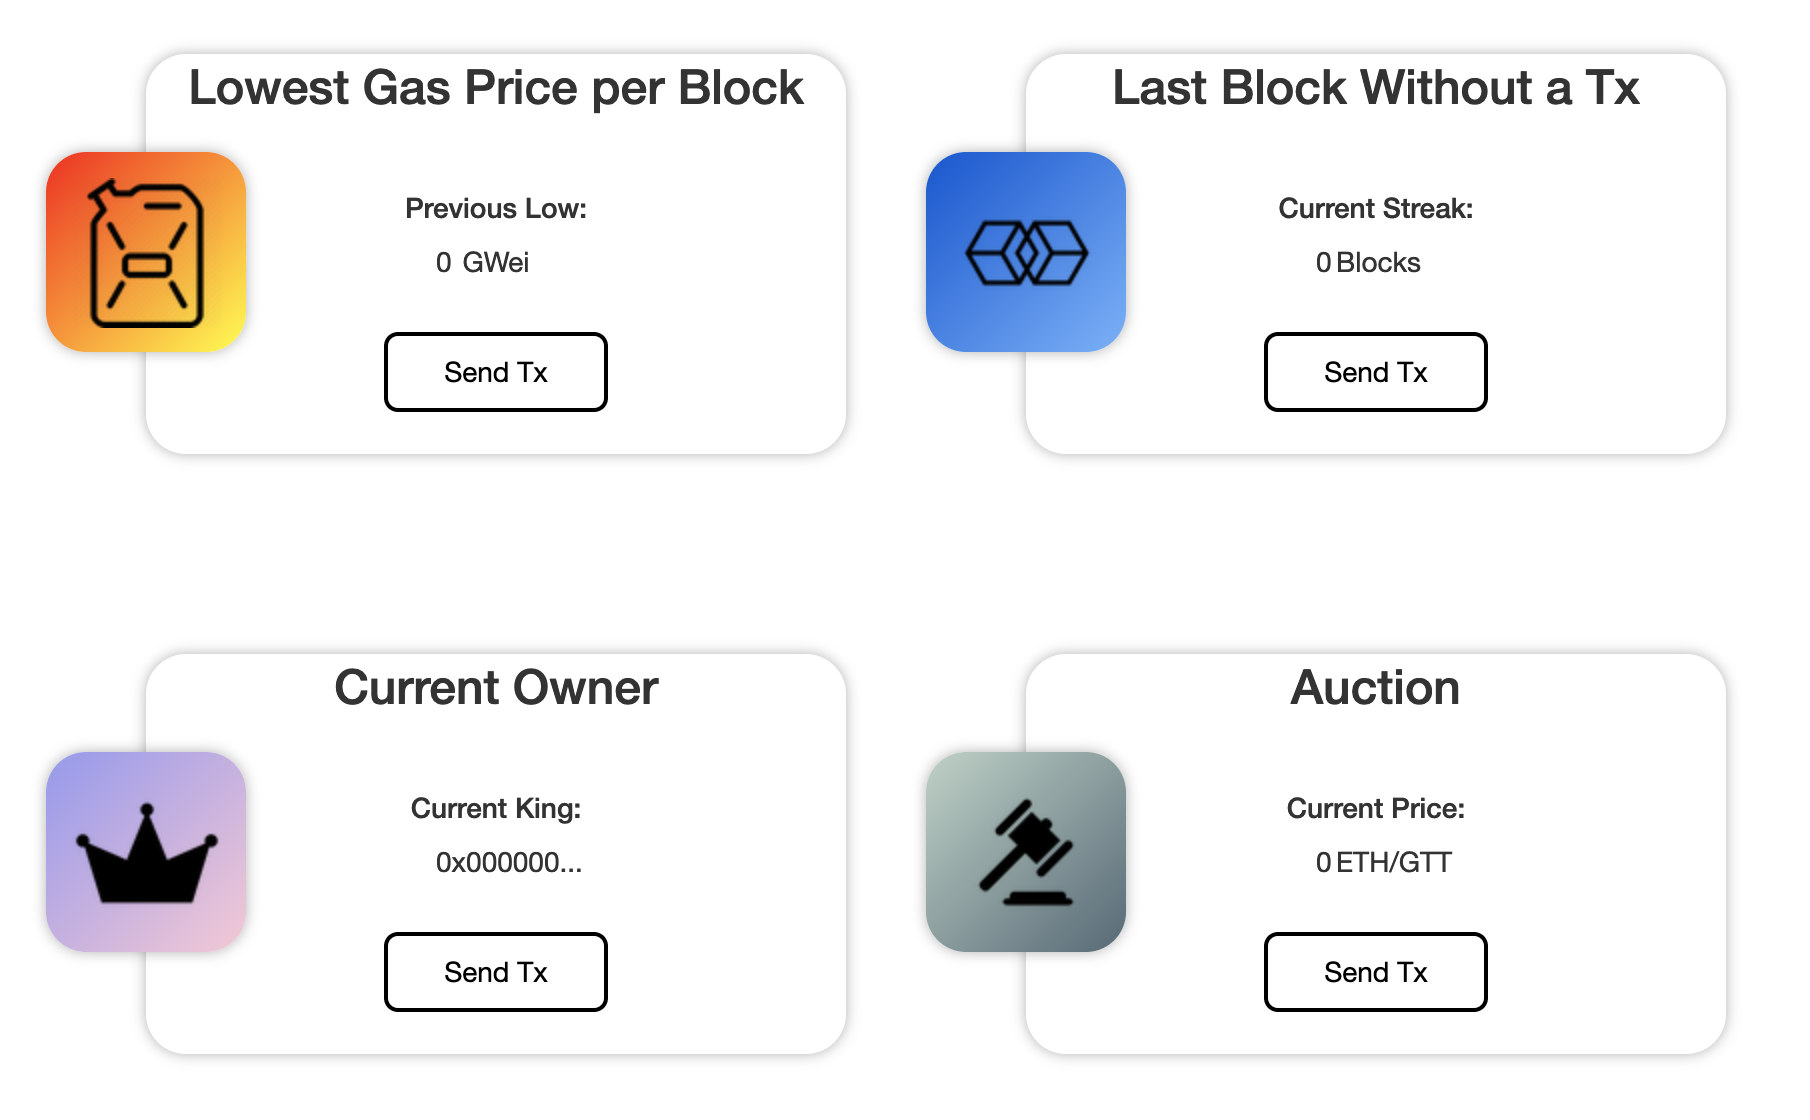
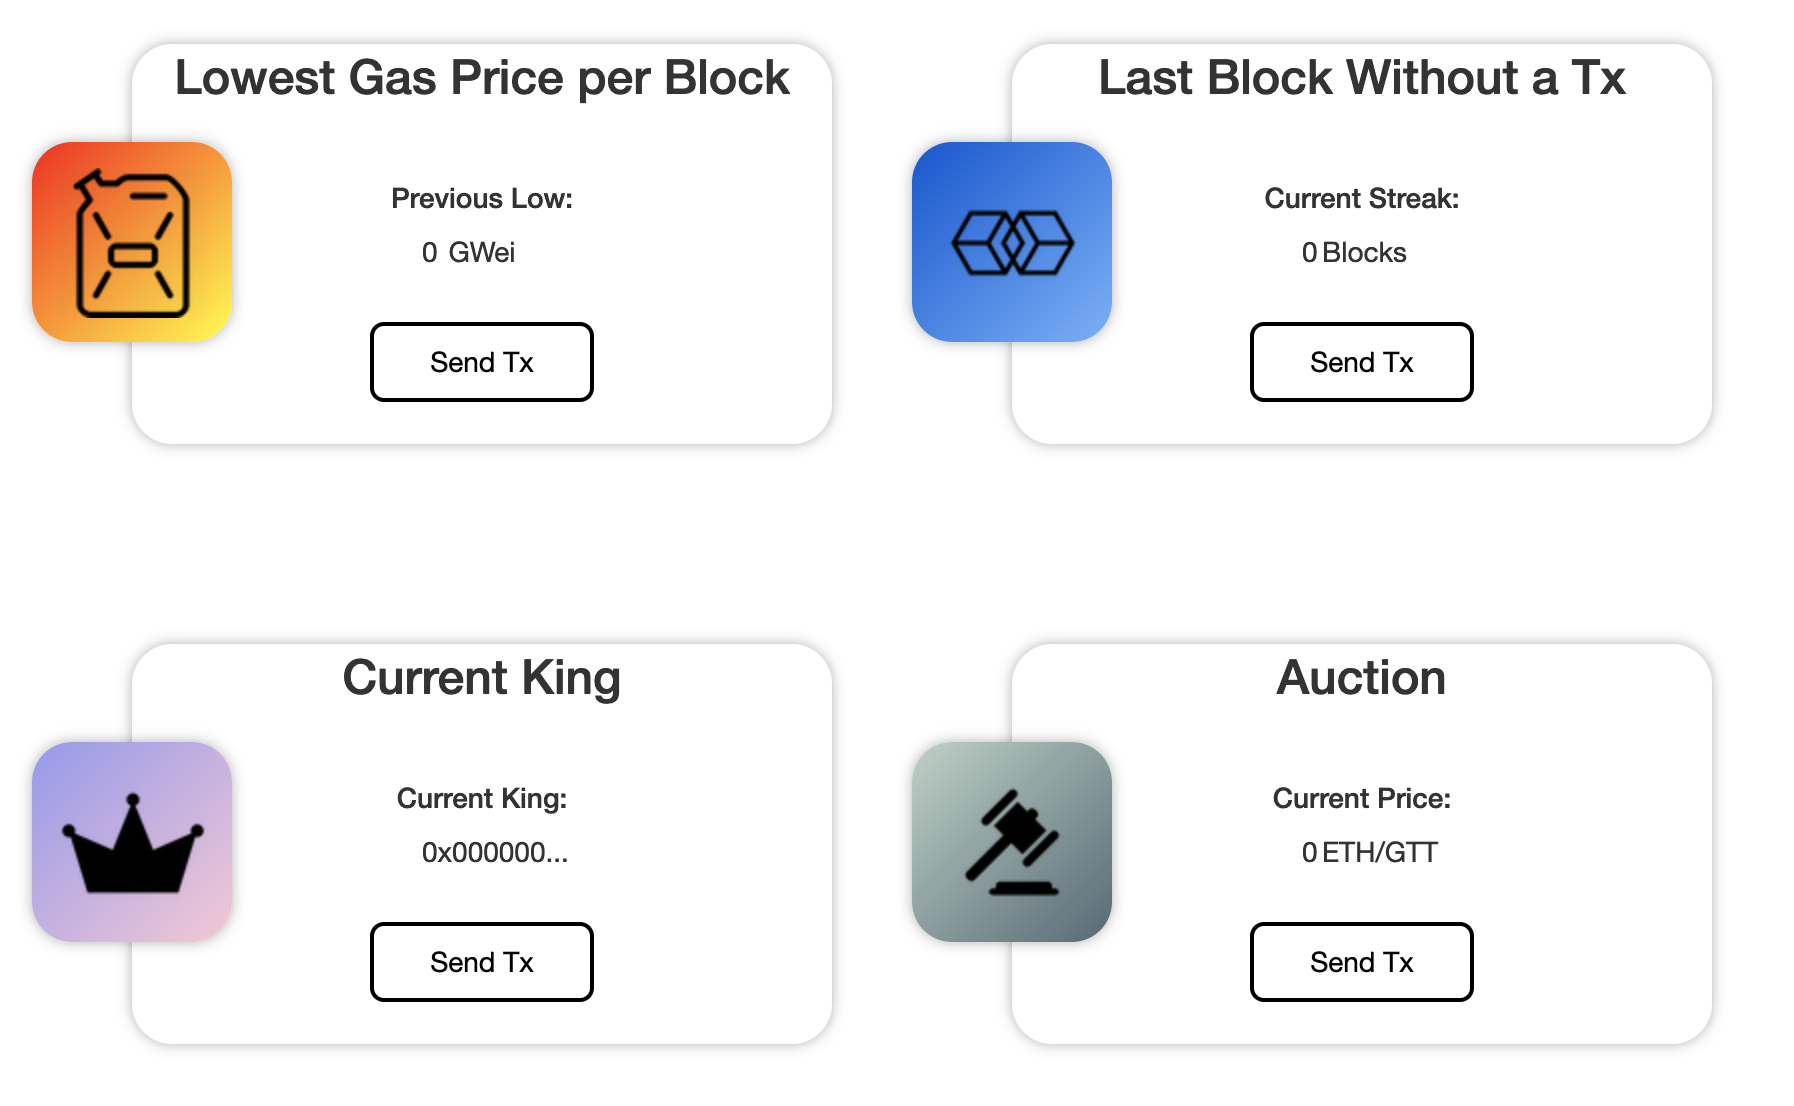
Update owner to king

diff --git a/client/index.html b/client/index.html
@@ -80,7 +80,7 @@
               <div class="row">
                 <div class="column">
                   <div class="fast-transition">
-                    <h3 style="padding-top: 2.5px;">Current Owner</h3>
+                    <h3 style="padding-top: 2.5px;">Current King</h3>
                     <div class="button-column">
                       <div class="rowtwo">
                         <div class="columntwol">
